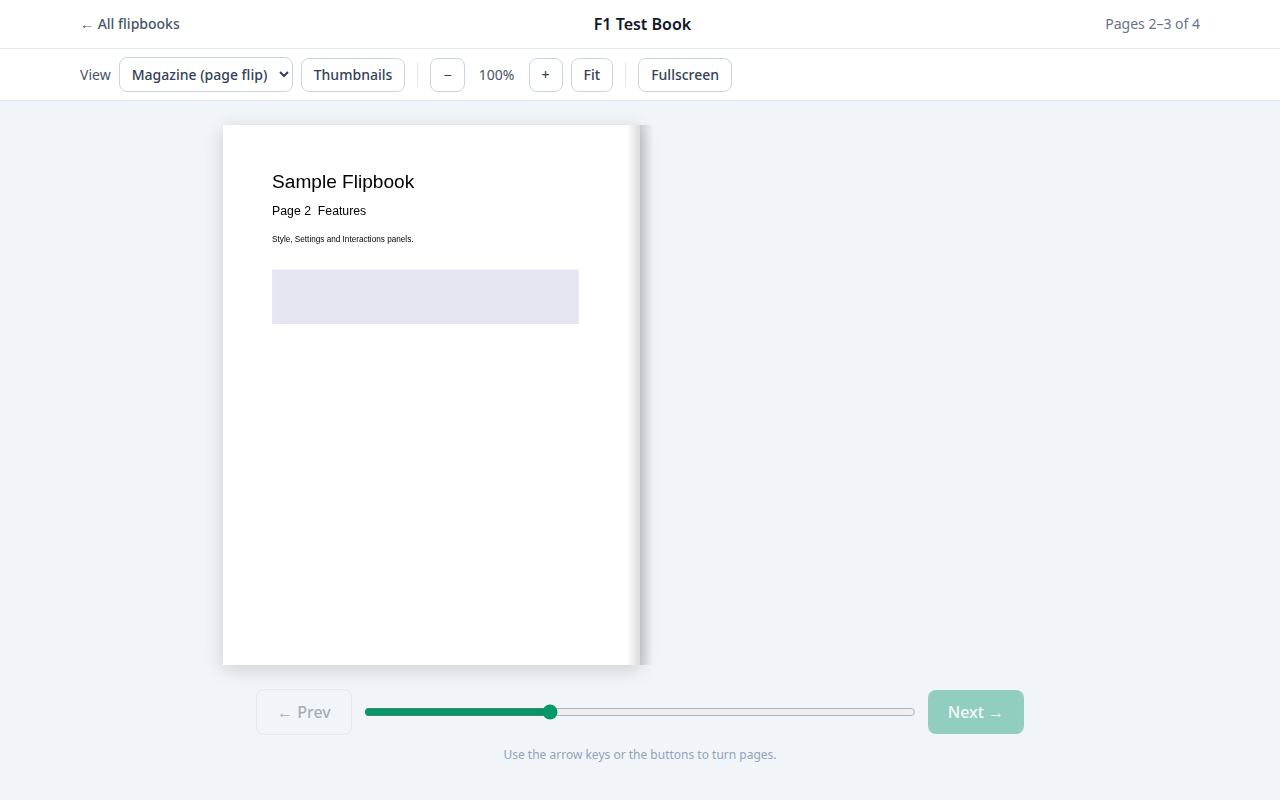
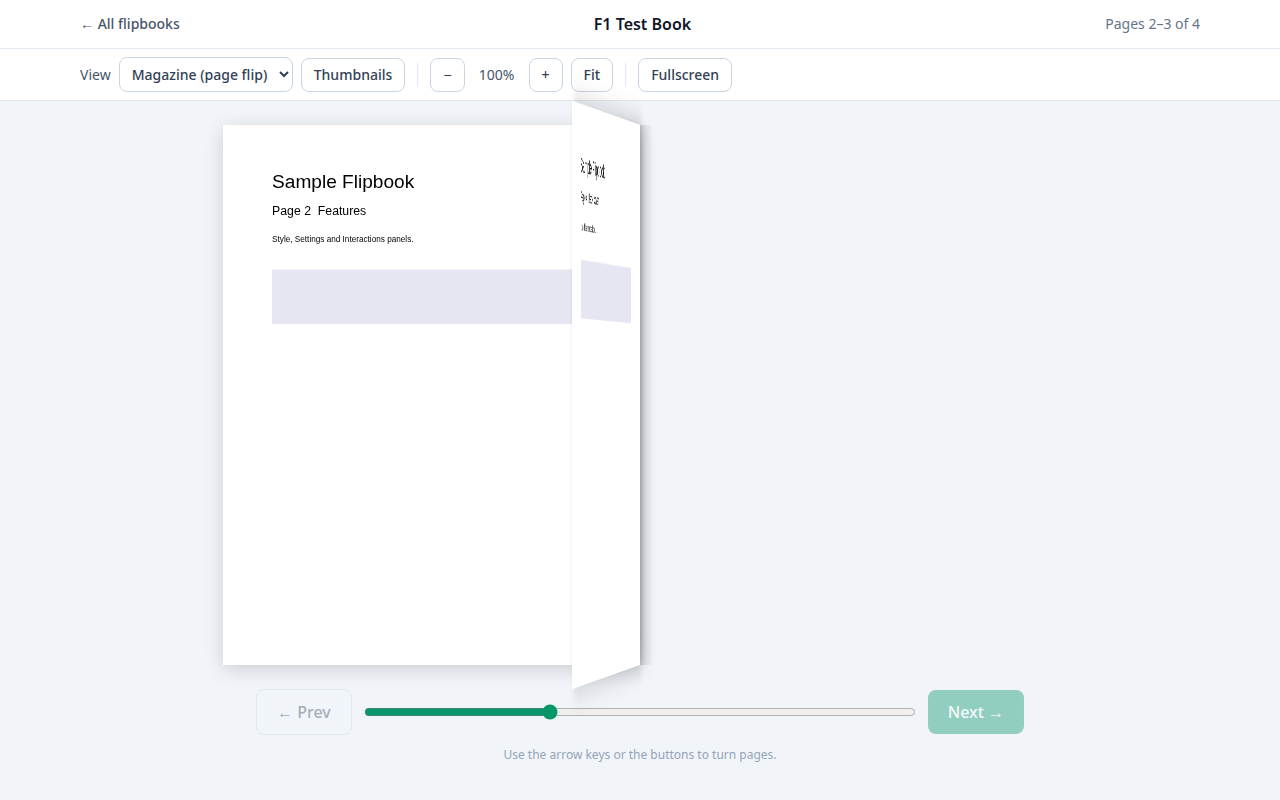
F4: slide to turn — drag a page left/right to turn it (tap still turns); release is caught at window level so a slide ending off the page still works; stage-inner overflow-hidden stops hover scrollbars

Changed region(s): [[0.4375, 0.3125, 0.5, 0.4062], [0.4375, 0.1875, 0.5, 0.25], [0.4375, 0.8125, 0.5, 0.8438]]

diff --git a/js/viewer.js b/js/viewer.js
@@ -21,6 +21,7 @@
   var thumbCache = {};
   var mode = 'magazine';
   var turnDir = null;
+  var dragState = { active: false, startX: 0, dir: null };
   var coverBuilt = false;
   var coverCards = {};
 
@@ -206,15 +207,24 @@
     var scale = fitScaleFor(infos, pages.length) * zoom;
     for (var j = 0; j < infos.length; j++) {
       var canvas = await renderPageCanvas(infos[j], scale);
-      /* Hover hint + click to turn: a right (odd) page turns forward,
-         a left (even) page turns back — only when a view exists that way. */
+      /* Hover hint + tap/slide to turn: a right (odd) page turns forward,
+         a left (even) page turns back — only when a view exists that way.
+         A tap turns in the page's direction; a slide over 30px turns in
+         the slide direction (slide left = forward, slide right = back). */
       var n = pages[j];
-      if (n % 2 === 1 && viewIndex < views.length - 1) {
-        canvas.classList.add('page-turn-next');
-        canvas.addEventListener('click', function () { goToView(viewIndex + 1, 'next'); });
-      } else if (n % 2 === 0 && viewIndex > 0) {
-        canvas.classList.add('page-turn-prev');
-        canvas.addEventListener('click', function () { goToView(viewIndex - 1, 'prev'); });
+      var turnDir = null;
+      if (n % 2 === 1 && viewIndex < views.length - 1) turnDir = 'next';
+      else if (n % 2 === 0 && viewIndex > 0) turnDir = 'prev';
+      if (turnDir) {
+        canvas.classList.add(turnDir === 'next' ? 'page-turn-next' : 'page-turn-prev');
+        /* pointerdown only records the grab; the window-level pointerup
+           finishes it, so a slide that ends off the page still turns. */
+        (function (dir) {
+          canvas.addEventListener('pointerdown', function (e) {
+            dragState.active = true; dragState.startX = e.clientX; dragState.dir = dir;
+            e.preventDefault();
+          });
+        })(turnDir);
       }
       stageInnerEl.appendChild(canvas);
     }
@@ -621,6 +631,23 @@
       renderView();
     }, 200);
   });
+
+  /* ---- Slide / tap to turn (finishes a grab started on a page) ---- */
+  function endDrag(e) {
+    if (!dragState.active) return;
+    dragState.active = false;
+    var dx = e.clientX - dragState.startX;
+    if (Math.abs(dx) > 30) {
+      if (dx < 0 && viewIndex < views.length - 1) goToView(viewIndex + 1, 'next');
+      else if (dx > 0 && viewIndex > 0) goToView(viewIndex - 1, 'prev');
+    } else if (dragState.dir === 'next') {
+      goToView(viewIndex + 1, 'next');
+    } else if (dragState.dir === 'prev') {
+      goToView(viewIndex - 1, 'prev');
+    }
+  }
+  window.addEventListener('pointerup', endDrag);
+  window.addEventListener('pointercancel', function () { dragState.active = false; });
 
   async function loadBook() {
     if (!id) { showError('No flipbook selected.'); return; }

diff --git a/viewer.html b/viewer.html
@@ -9,7 +9,7 @@
   <script src="js/vendor/pdf.min.js"></script>
   <script src="js/config.js"></script>
   <script src="js/app.js" defer></script>
-  <script src="js/viewer.js?v=f4f" defer></script>
+  <script src="js/viewer.js?v=f4g" defer></script>
   <style>
     #stage-inner { transition: transform .18s ease, opacity .18s ease; }
     .flip-overlay { position: fixed; z-index: 40; background: #f1f5f9; }
@@ -80,7 +80,7 @@
     </div>
 
     <div id="stage" class="hidden w-full select-none overflow-auto" style="max-height: calc(100vh - 260px)">
-      <div id="stage-inner" class="relative mx-auto flex w-max"></div>
+      <div id="stage-inner" class="relative mx-auto flex w-max overflow-hidden"></div>
       <div id="coverflow" class="hidden"></div>
     </div>
 
